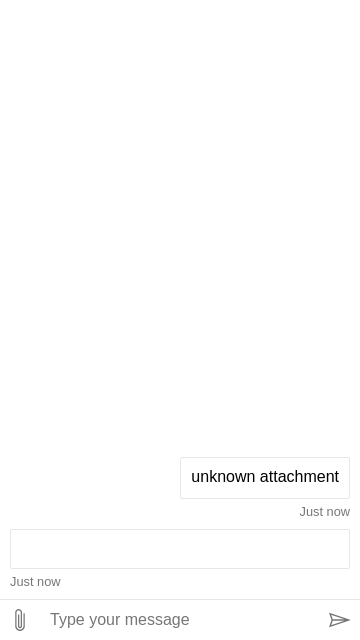
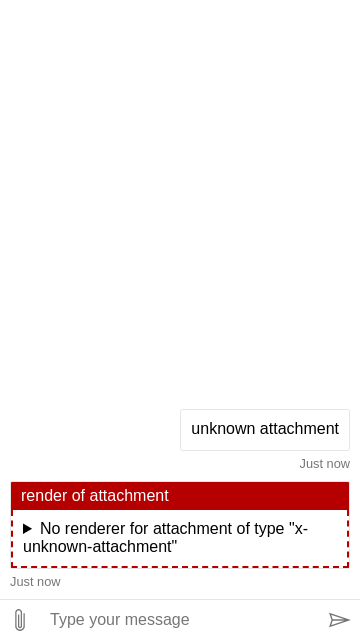
Update tests

Changed region(s): [[0.0306, 0.6562, 0.9778, 0.875]]

diff --git a/__tests__/html2/activity/legacy/unknownAttachment.html b/__tests__/html2/activity/legacy/unknownAttachment.html
@@ -2,32 +2,85 @@
 <html lang="en-US">
   <head>
     <link href="/assets/index.css" rel="stylesheet" type="text/css" />
+    <script type="importmap">
+      {
+        "imports": {
+          "jest-mock": "https://esm.sh/jest-mock",
+          "react": "https://esm.sh/react@18.3.1",
+          "react-dom": "https://esm.sh/react-dom@18.3.1",
+          "react-dom/": "https://esm.sh/react-dom@18.3.1/"
+        }
+      }
+    </script>
     <script crossorigin="anonymous" src="/test-harness.js"></script>
     <script crossorigin="anonymous" src="/test-page-object.js"></script>
-    <script crossorigin="anonymous" src="/__dist__/webchat-es5.js"></script>
+    <script type="module">
+      import React from 'react';
+      window.React = React;
+    </script>
+    <script crossorigin="anonymous" defer src="/__dist__/webchat-es5.js"></script>
+    <script crossorigin="anonymous" defer src="/__dist__/botframework-webchat-debug-theme.development.js"></script>
   </head>
   <body>
     <main id="webchat"></main>
-    <script>
-      run(
-        async function () {
-          WebChat.renderWebChat(
-            {
-              directLine: WebChat.createDirectLine({ token: await testHelpers.token.fetchDirectLineToken() }),
-              store: testHelpers.createStore()
-            },
-            document.getElementById('webchat')
-          );
+    <script type="module">
+      import { fn, spyOn } from 'jest-mock';
+      import React, { createElement, memo } from 'react';
+      import { createRoot } from 'react-dom/client';
 
-          await pageConditions.uiConnected();
-          await pageObjects.sendMessageViaSendBox('unknown attachment');
-          await pageConditions.minNumActivitiesShown(2);
+      run(async function () {
+        const {
+          testHelpers: { createStore },
+          WebChat: {
+            createDirectLine,
+            DebugProvider,
+            hooks: { useActivities, useBuildRenderActivityCallback },
+            middleware: { activityComponent, createActivityPolymiddleware },
+            ReactWebChat
+          }
+        } = window;
 
-          // This snapshot differs with NODE_ENV, we need to make it pass in NODE_ENV !== 'production'
-          await host.snapshot('local');
-        },
-        { ignoreErrors: true }
-      );
+        const onTelemetry = fn();
+        const rootElement = document.getElementsByTagName('main')[0];
+
+        // WHEN: Web Chat is being rendered with <DebugProvider>.
+        createRoot(document.getElementById('webchat')).render(
+          createElement(
+            DebugProvider,
+            {},
+            createElement(ReactWebChat, {
+              directLine: createDirectLine({ token: await testHelpers.token.fetchDirectLineToken() }),
+              onTelemetry,
+              store: createStore()
+            })
+          )
+        );
+
+        await pageConditions.uiConnected();
+
+        const consoleWarn = fn(console.log.bind(console));
+
+        spyOn(console, 'warn').mockImplementationOnce(consoleWarn);
+
+        await pageObjects.sendMessageViaSendBox('unknown attachment');
+        await pageConditions.numActivitiesShown(2);
+
+        // THEN: Should have error log.
+        //       Currently attachment middleware is using console.warn instead of console.error.
+        //       Once we migrate to polymiddleware, it should be console.error.
+        expect(consoleWarn).toHaveBeenCalledTimes(1);
+        expect(consoleWarn.mock.calls[0][0]).toBe(
+          'No renderer for attachment for screen reader of type "x-unknown-attachment"'
+        );
+
+        // THEN: Should emit as exception event.
+        const exceptionEvent = onTelemetry.mock.calls.find(call => call[0]?.type === 'exception');
+
+        expect(exceptionEvent).toBeTruthy();
+        expect(exceptionEvent[0].error.message).toBe('No renderer for attachment of type "x-unknown-attachment"');
+
+        await host.snapshot('local');
+      });
     </script>
   </body>
 </html>

diff --git a/__tests__/html2/activity/legacy/unknownActivity.html b/__tests__/html2/activity/legacy/unknownActivity.html
@@ -1,33 +1,82 @@
-<!DOCTYPE html>
+<!doctype html>
 <html lang="en-US">
   <head>
     <link href="/assets/index.css" rel="stylesheet" type="text/css" />
+    <script type="importmap">
+      {
+        "imports": {
+          "jest-mock": "https://esm.sh/jest-mock",
+          "react": "https://esm.sh/react@18.3.1",
+          "react-dom": "https://esm.sh/react-dom@18.3.1",
+          "react-dom/": "https://esm.sh/react-dom@18.3.1/"
+        }
+      }
+    </script>
     <script crossorigin="anonymous" src="/test-harness.js"></script>
     <script crossorigin="anonymous" src="/test-page-object.js"></script>
-    <script crossorigin="anonymous" src="/__dist__/webchat-es5.js"></script>
+    <script type="module">
+      import React from 'react';
+      window.React = React;
+    </script>
+    <script crossorigin="anonymous" defer src="/__dist__/webchat-es5.js"></script>
+    <script crossorigin="anonymous" defer src="/__dist__/botframework-webchat-debug-theme.development.js"></script>
   </head>
   <body>
     <main id="webchat"></main>
-    <script>
-      run(
-        async function () {
-          WebChat.renderWebChat(
-            {
-              directLine: WebChat.createDirectLine({ token: await testHelpers.token.fetchDirectLineToken() }),
-              store: testHelpers.createStore()
-            },
-            document.getElementById('webchat')
-          );
+    <script type="module">
+      import { fn, spyOn } from 'jest-mock';
+      import React, { createElement, memo } from 'react';
+      import { createRoot } from 'react-dom/client';
 
-          await pageConditions.uiConnected();
-          await pageObjects.sendMessageViaSendBox('unknown activity');
-          await pageConditions.minNumActivitiesShown(1);
+      run(async function () {
+        const {
+          testHelpers: { createStore },
+          WebChat: {
+            createDirectLine,
+            DebugProvider,
+            hooks: { useActivities, useBuildRenderActivityCallback },
+            middleware: { activityComponent, createActivityPolymiddleware },
+            ReactWebChat
+          }
+        } = window;
 
-          // This snapshot differs with NODE_ENV, we need to make it pass in NODE_ENV !== 'production'
-          await host.snapshot('local');
-        },
-        { ignoreErrors: true }
-      );
+        const onTelemetry = fn();
+        const rootElement = document.getElementsByTagName('main')[0];
+
+        // WHEN: Web Chat is being rendered with <DebugProvider>.
+        createRoot(document.getElementById('webchat')).render(
+          createElement(
+            DebugProvider,
+            {},
+            createElement(ReactWebChat, {
+              directLine: createDirectLine({ token: await testHelpers.token.fetchDirectLineToken() }),
+              onTelemetry,
+              store: createStore()
+            })
+          )
+        );
+
+        await pageConditions.uiConnected();
+
+        const consoleError = fn(console.warn.bind(console));
+
+        spyOn(console, 'error').mockImplementationOnce(consoleError);
+
+        await pageObjects.sendMessageViaSendBox('unknown activity');
+        await pageConditions.numActivitiesShown(1);
+
+        // THEN: Should have error log.
+        expect(consoleError).toHaveBeenCalledTimes(1);
+        expect(consoleError.mock.calls[0][0].message).toBe('No renderer for activity of type "x-unknown-activity"');
+
+        // THEN: Should emit as exception event.
+        const exceptionEvent = onTelemetry.mock.calls.find(call => call[0]?.type === 'exception');
+
+        expect(exceptionEvent).toBeTruthy();
+        expect(exceptionEvent[0].error.message).toBe('No renderer for activity of type "x-unknown-activity"');
+
+        await host.snapshot('local');
+      });
     </script>
   </body>
 </html>
